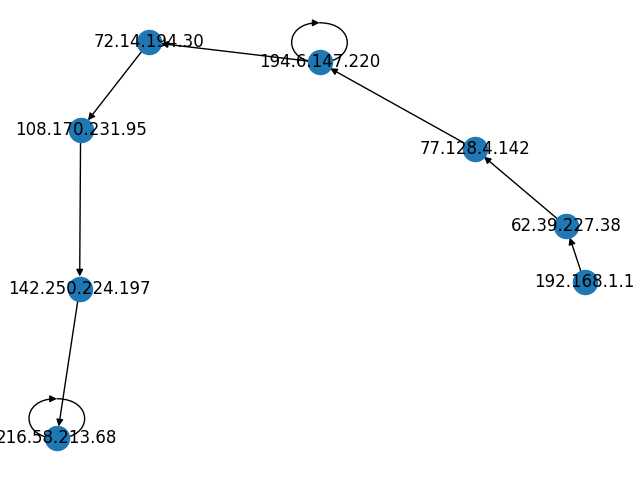
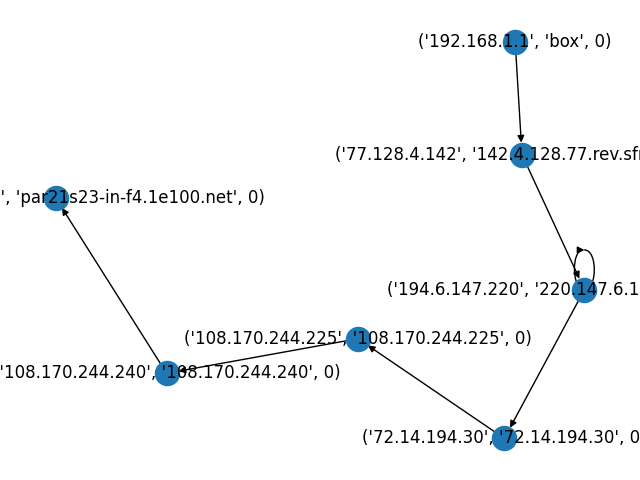
add raw socket function

diff --git a/routology/main.py b/routology/main.py
@@ -1,23 +1,54 @@
-from scapy.all import *
+import socket
 import networkx as nx
 import matplotlib.pyplot as plt
+import sys
+import time
 
 
 def traceroute(hostname):
     hops = []
-    for i in range(1, 28):
-        pkt = IP(dst=hostname, ttl=i) / ICMP()
-        reply = sr1(pkt, verbose=0, timeout=1)
-        if reply is None:
+    max_hops = 30
+    dest_addr = socket.gethostbyname(hostname)
+    port = 33434
+    icmp = socket.getprotobyname("icmp")
+    udp = socket.getprotobyname("udp")
+    ttl = 1
+    while True:
+        recv_socket = socket.socket(socket.AF_INET, socket.SOCK_RAW, icmp)
+        recv_socket.settimeout(2)
+        send_socket = socket.socket(socket.AF_INET, socket.SOCK_DGRAM, udp)
+        send_socket.setsockopt(socket.SOL_IP, socket.IP_TTL, ttl)
+        start_time = time.time()
+        send_socket.sendto("".encode(), (hostname, port))
+        curr_addr = None
+        curr_name = None
+        try:
+            _, curr_addr = recv_socket.recvfrom(512)
+            curr_addr = curr_addr[0]
+            try:
+                curr_name = socket.gethostbyaddr(curr_addr)[0]
+            except socket.error:
+                curr_name = curr_addr
+        except socket.error:
+            pass
+        finally:
+            send_socket.close()
+            recv_socket.close()
+
+        rtt = time.time() - start_time
+        hops.append((curr_addr, curr_name, rtt))
+
+        ttl += 1
+        if curr_addr == dest_addr or ttl > max_hops:
             break
-        else:
-            hops.append(reply.src)
+
     return hops
 
 
-hostname = "www.google.com"
+hostname = sys.argv[1]
 result = traceroute(hostname)
-print(result)
+for i, hop in enumerate(result):
+    print("{:2d} {:15s} ({:s}) {:.2f} ms".format(i + 1, hop[1], hop[0], hop[2] * 1000))
 
 G = nx.DiGraph()
 
